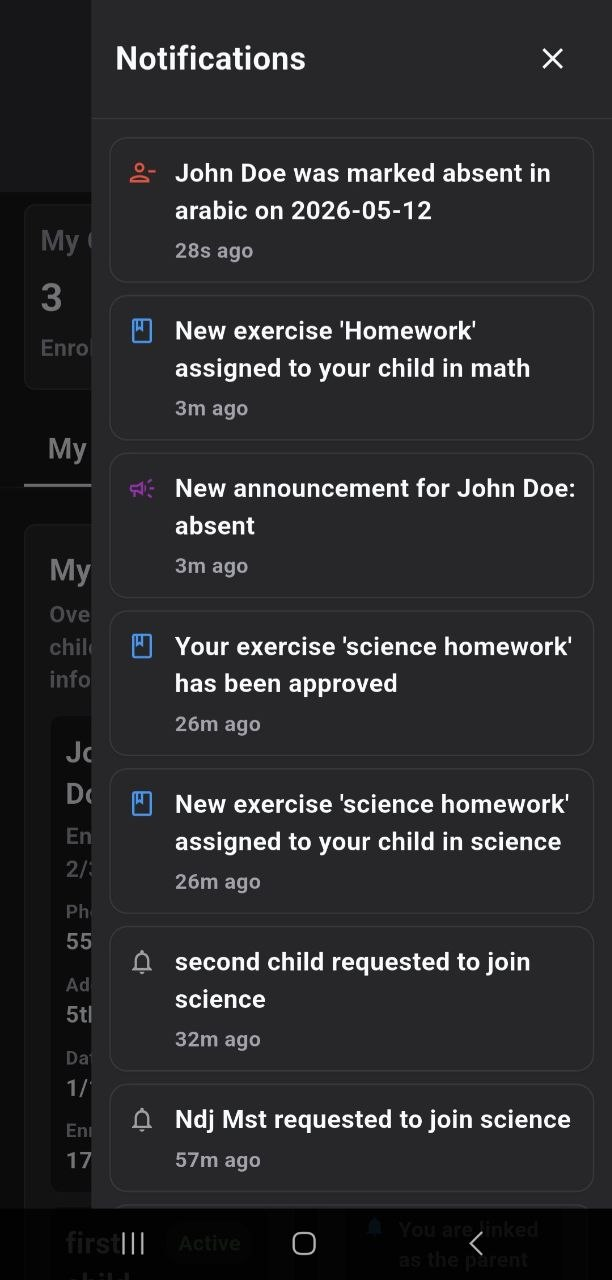
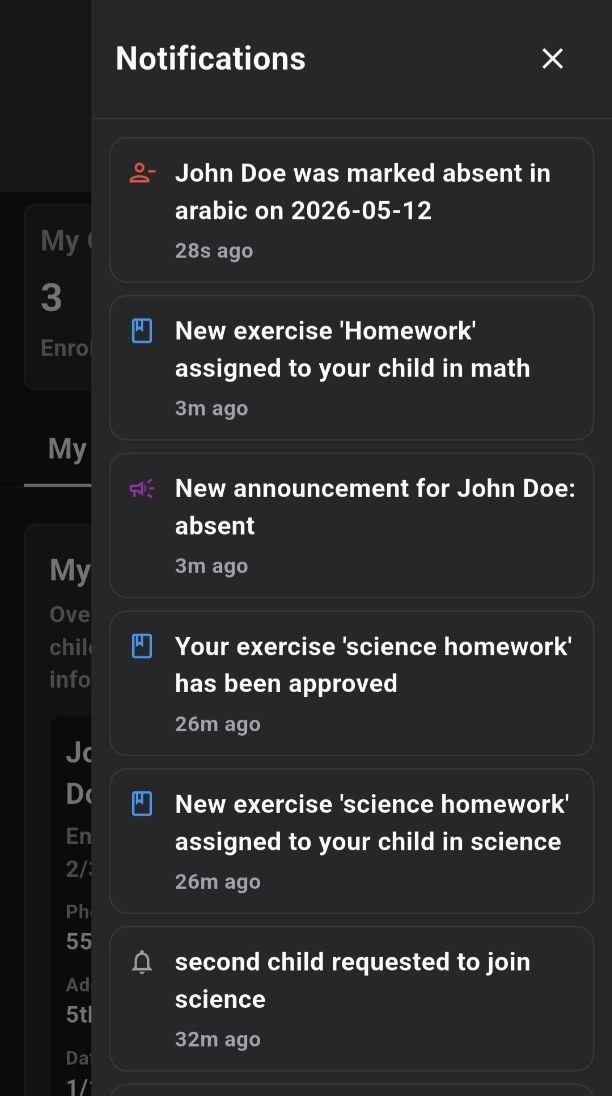
fixed a bug with the enrolled classes in student dashboard

diff --git a/src/pages/StudentDashboard.tsx b/src/pages/StudentDashboard.tsx
@@ -247,7 +247,6 @@ const handleEnroll = async (classTeacherId: number) => {
   const flattenToClassCards = (): ClassCard[] => {
     const cards: ClassCard[] = [];
     for (const cls of classes) {
-      const status = cls.enrollment_status?.status || null;
       if (cls.teachers.length === 0) {
         cards.push({
           classId: cls.id,
@@ -258,10 +257,16 @@ const handleEnroll = async (classTeacherId: number) => {
           teacherId: 0,
           level: null,
           studentCount: cls.student_count,
-          enrollmentStatus: status,
+          enrollmentStatus: null,  // No teacher = no enrollment possible
         });
       } else {
         for (const teacher of cls.teachers) {
+          // ✅ Match enrollment status by class_teacher_id
+          let enrollmentStatus = null;
+          if (cls.enrollment_status && cls.enrollment_status.class_teacher_id === teacher.class_teacher_id) {
+            enrollmentStatus = cls.enrollment_status.status;
+          }
+          
           cards.push({
             classId: cls.id,
             classTeacherId: teacher.class_teacher_id,
@@ -271,7 +276,7 @@ const handleEnroll = async (classTeacherId: number) => {
             teacherId: teacher.id,
             level: teacher.level,
             studentCount: cls.student_count,
-            enrollmentStatus: status,
+            enrollmentStatus: enrollmentStatus,  // ✅ Now per teacher!
           });
         }
       }

diff --git a/src/pages/landingPage.tsx b/src/pages/landingPage.tsx
@@ -316,8 +316,8 @@ const handleContactSubmit = async (e: React.FormEvent) => {
 <section className="container mx-auto px-6 py-40 flex flex-col-reverse lg:flex-row items-center gap-24">
   <div className="flex-1 w-full flex justify-center lg:justify-end">
     {/* App Mockup Image Placeholder */}
-    <div className="w-full max-w-[340px] aspect-[9/16] bg-[#0a0a0a] border border-white/10 relative overflow-hidden group">
-      
+    <div className="w-full max-w-[360px]   aspect-[9/16] bg-[#0a0a0a] border border-white/10 relative overflow-hidden group">
+      {/* h-[810px]*/}
       {/* ✅ Image Container - Add this */}
       <img 
         src={appImages[appIndex]} 
